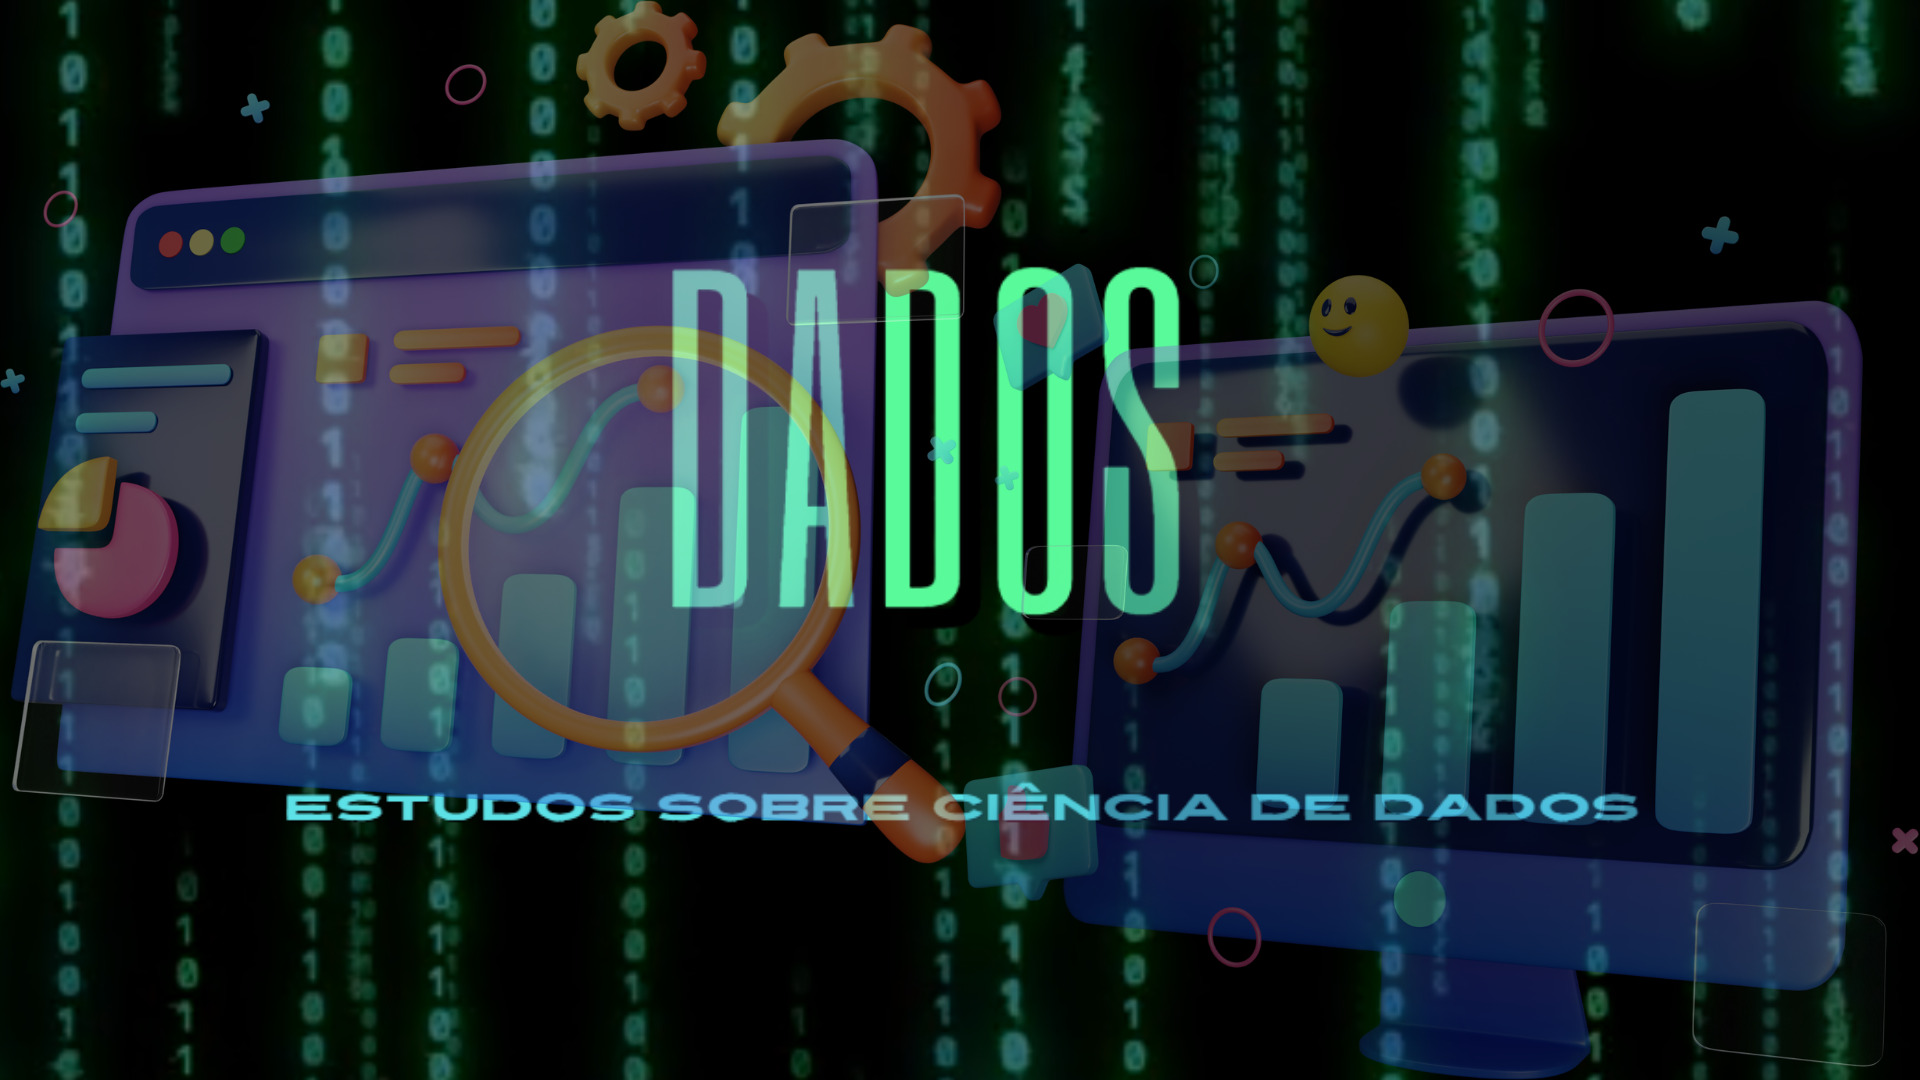
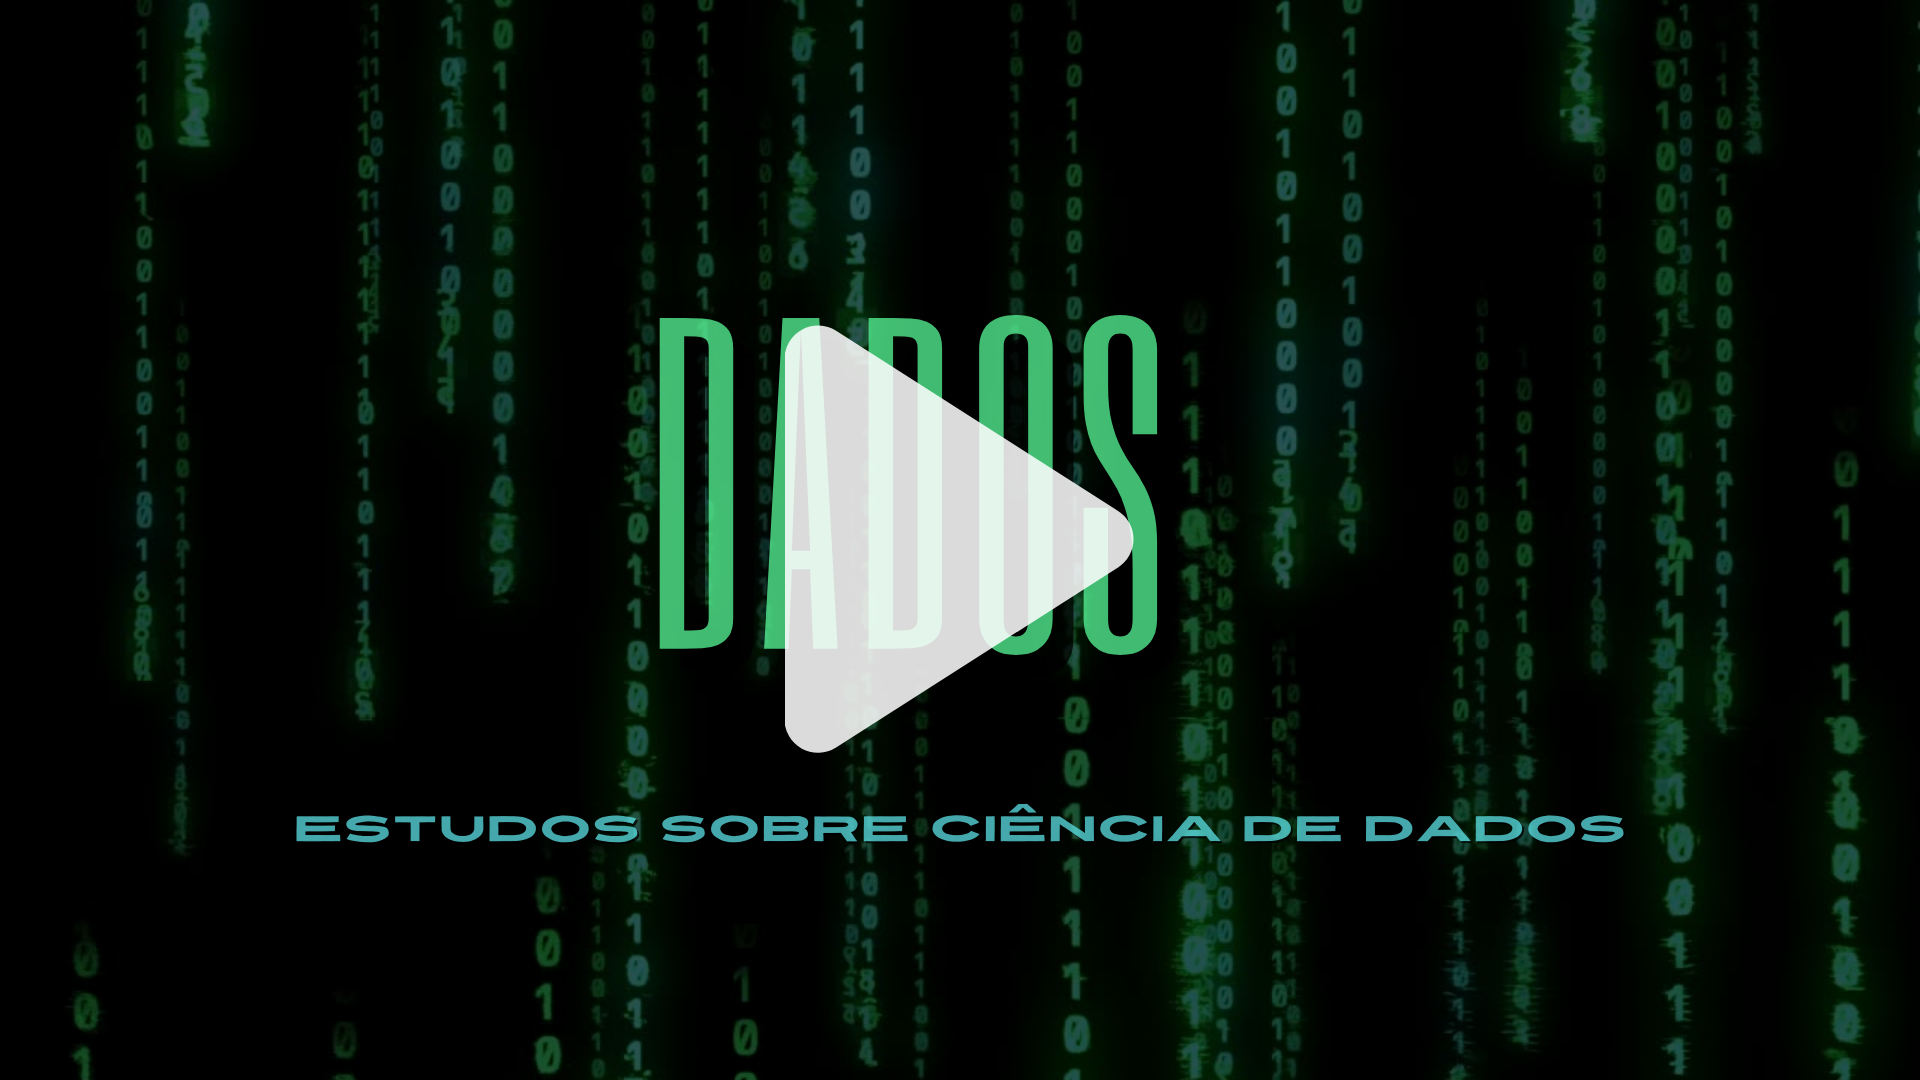
Update readme para link do video

diff --git a/README.md b/README.md
@@ -1,7 +1,8 @@
-# dados
+# Dados 🎲
 
-<img src='dados.png'>
+**Assista ao vídeo:**
 
-[![]()]()
-[![Apresentação](https://www.youtube.com/watch?v=8GSurpLUSoM)](https://www.youtube.com/watch?v=8GSurpLUSoM)
+<a href="https://www.youtube.com/watch?v=8GSurpLUSoM" target="_blank">
+<img src="dados.png" width="40%">
+</a>
 
